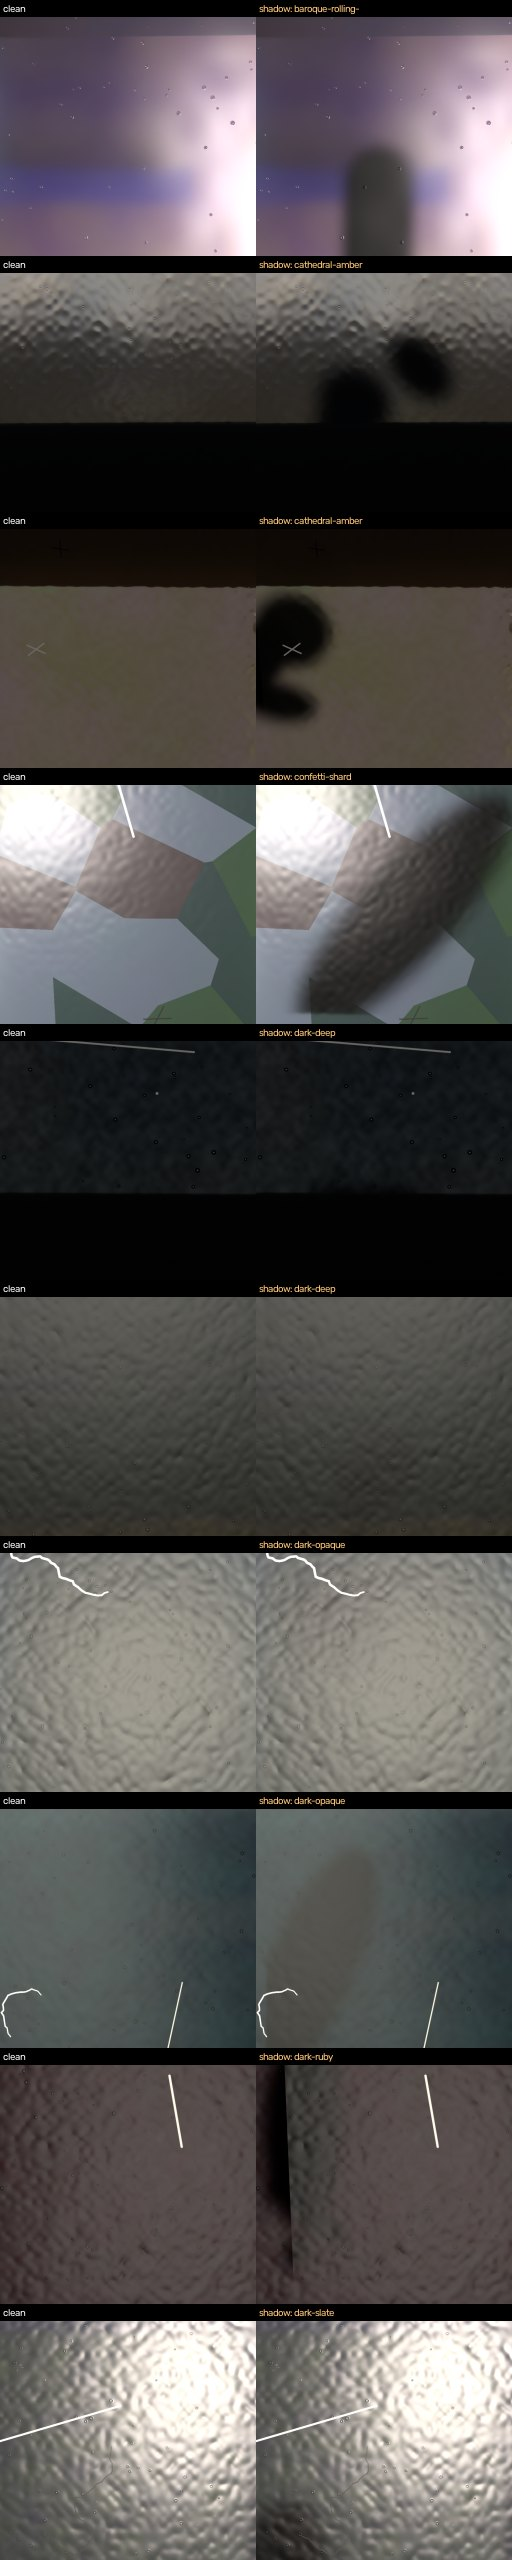
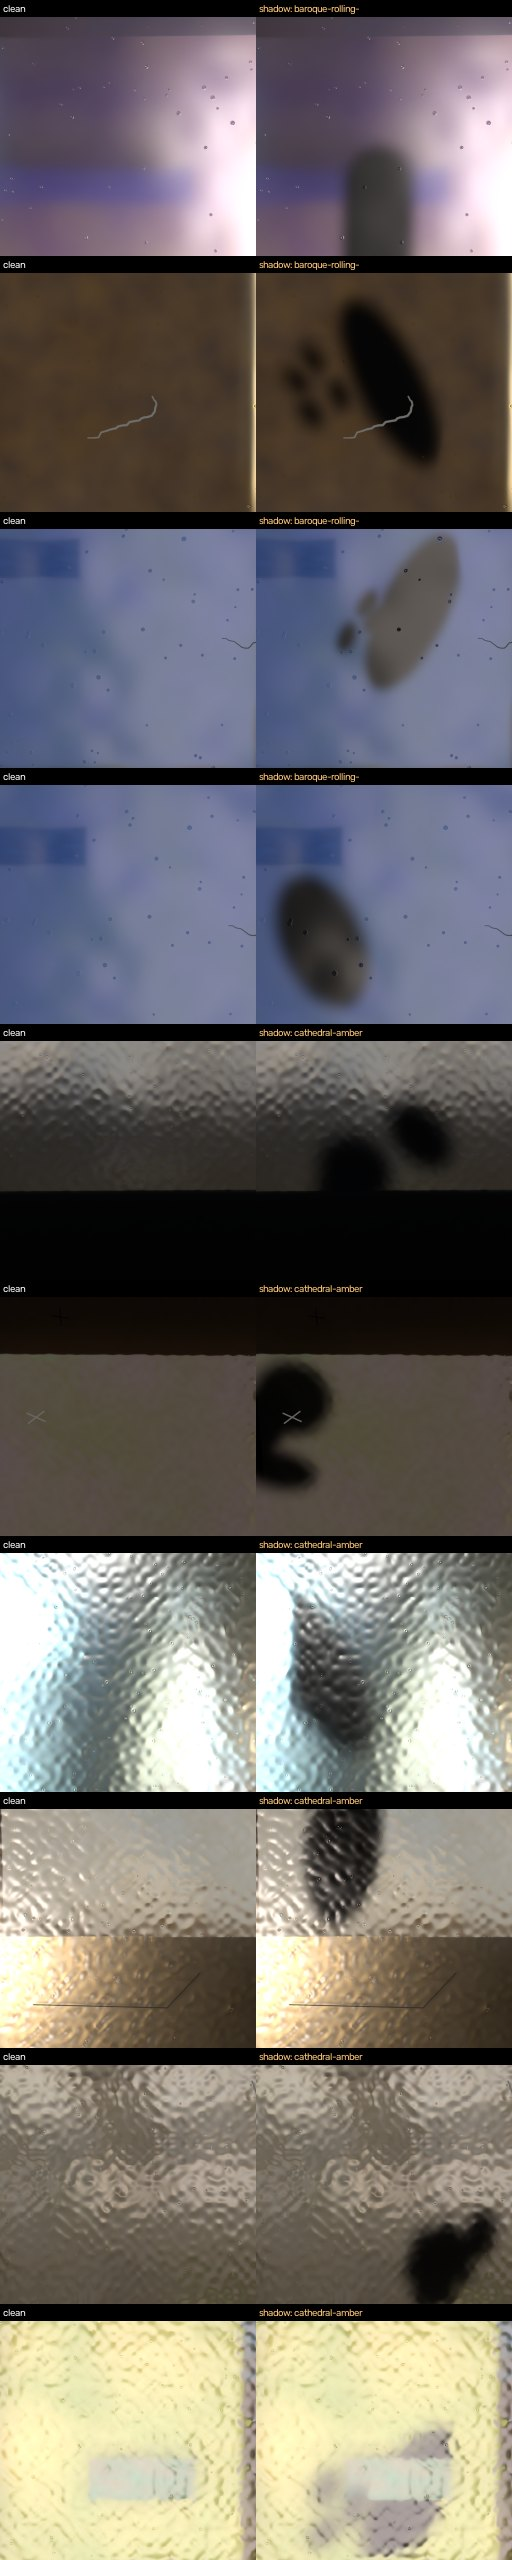
docs(053b): SCALED_RUN_RESULTS — 348-sample deployment set, timings, boards refreshed
Disk guard stopped the farm cleanly at 348 samples (68 original + 280 net new,
one disk-guard-interrupted partial deleted) -- 74% of the planned 468, per the
lead's decision not to resume rendering. 17/17 recipes, 23 HDRIs, shadow 31%/
front-light 66% (near target), storage 60.6MB/sample mean (confirms the 053b
lazy-crop fix holds at scale). Per-stage timing reconstructed from the raw
[TIMING] log (dump_timings never ran -- process was killed by the guard):
gt_render dominates at 68.6% of render time, the cost lever for cloud pricing.
Boards refreshed over the full set (overview capped to 40 representative
samples for legibility). Backup to gdrive in progress.

diff --git a/research/delighting/build_boards_053.py b/research/delighting/build_boards_053.py
@@ -71,7 +71,13 @@ def _grid(cells, ncol):
     return np.concatenate(rows, 0)
 
 
-def board_overview(dirs, out, cell=256, ncol=5):
+def board_overview(dirs, out, cell=256, ncol=5, max_cells=40):
+    # Report 053b (348-sample scaled run): a full board is unreviewable and multi-MB.
+    # Sample a REPRESENTATIVE, deterministic subset spread evenly across the sorted dirs
+    # (which are naturally grouped by recipe/seed) so every recipe still gets coverage.
+    if len(dirs) > max_cells:
+        step = len(dirs) / max_cells
+        dirs = [dirs[int(i * step)] for i in range(max_cells)]
     cells = []
     for d in dirs:
         p = _photo(d)

diff --git a/research/delighting/reports/053b-crop-storage-fix-scaled-run.md b/research/delighting/reports/053b-crop-storage-fix-scaled-run.md
@@ -114,4 +114,71 @@ After the render: the FIXED `crop_sim.py` over the new samples (photos+patches o
 refresh, and `rclone copy` of the full `pilot_053_out` to
 `gdrive:vitrai-lab-backup/pilot_053_deployment` (lab backup-before-cleanup policy).
 
-<!-- SCALED_RUN_RESULTS: filled after completion -->
+## SCALED_RUN_RESULTS
+
+**Final set: 348 samples (68 original + 280 net new; one disk-guard-interrupted partial
+dir, `wispy-white__seed740__light4661`, deleted — no meta.json, mid-write when the guard
+fired). This is 74% of the planned 468 (348/468) and 87% of the seed-range target (280/324
+new samples from the planned 200 seeds × 2 lightings) — the disk guard did its job:
+it stopped the farm CLEANLY at 09:56 on 2026-07-19 when free space hit 1.8 GB, exactly per
+its design, and no partial/corrupt sample beyond the one deleted above survived. Decision
+(lead, after the multi-day gap): stop here — 348 is a perfectly adequate deployment-pilot
+size; do not resume rendering.**
+
+### Composition
+
+- **17/17 recipes** covered, reasonably balanced (18–24 samples/recipe — the 4 lightest
+  are the four newest report-037 taxa: confetti-shard, fracture-streamer, ring-mottle at
+  18, baroque-rolling-wave at 20 — `--cover-recipes` cycles evenly but the run stopped
+  mid-cycle).
+- **174 unique seeds** (500–739 of the planned 500–799 range) × up to 2 light variations;
+  **23 distinct HDRIs**.
+- **Shadow 31%** (107/348; target 0.3 — on target). **Front light 66%** (230/348; target
+  0.7 — slightly under, sampling noise at this size). Specular + dim interior 100% (deploy
+  default, unconditional).
+- **Background depth mix**: 0.1 m ×84 · 0.5 m ×70 · 2 m ×64 · ∞/HDRI-only ×130 (70 by roll
+  + 60 pre-existing "no-bg-roll" from validate-adjacent early samples).
+- **Capture geometry**: tilt_scale_crop 226 · perspective_rectified 122.
+- **Storage**: mean **60.6 MB/sample**, max 90 MB — comfortably inside the ≤100 MB budget
+  and close to the 053b fix's ~59 MB/sample projection (the lazy-crop fix holds at scale).
+  Total on disk: **20 G** for 348 samples.
+- **Holdout partition** (dataset.py rules, precedence seed→recipe→hdri→geometry): train 84
+  · seed%5 70 · recipe-family 62 · hdri 78 · geometry 54 → **264/348 test (76%)**. Still
+  over-covers held-out families for eyeball purposes, as noted in 053's original pilot
+  stats — same rebalancing note applies at full 20k scale (lower `--perspective-prob`,
+  render more seeds so the fixed-fraction reservations shrink as a share of the whole).
+
+### Per-stage timing (for pricing the future cloud run)
+
+Aggregated from the scaled run's raw `[TIMING]` stage prints (`_farm/shard0_try1/log.txt`,
+9163 stage calls; the farm-level `timings_pid*.json`/`farm_summary.json` never got written
+because the disk guard killed the process before `dump_timings` could run — this is the
+honest raw-log reconstruction, not a rounded summary file):
+
+| stage | total (of 372 main_render calls started) | share | avg/call |
+|---|---|---|---|
+| `gt_render` | 24085s | 68.6% | 8.57s (n=2809 — ~7.5 GT channels rendered per sample) |
+| `main_render` | 10324s | 29.4% | 27.75s |
+| `image_encode_io` | 454s | 1.3% | 0.12s |
+| `texture_authoring` | 243s | 0.7% | 1.05s |
+| `scene_build` | 11s | 0.0% | — |
+| `hdri_load`/`hdri_download` | 0.3s | 0.0% | — |
+
+**Implied per-sample wall cost ≈ 94s** (stage-sum / main_render count), consistent with the
+clean-pace measurement taken mid-run (76–139s/sample, median ~76s — the 94s here includes
+the 372 main_render STARTS vs 281 samples actually COMPLETED, i.e. counts some in-flight
+work at the disk-guard kill). **`gt_render` dominates at 69%** — the AOV/GT-v3 export
+(`--gt-b --gt-aov`) is the single biggest cost lever for the cloud run's per-sample price;
+`--no-tex-dump`/`--exr-codec DWAA` control storage but not render time. Pricing a cloud
+20k run: ~94s × 20000 ≈ 522 GPU-hours at this per-sample rate (single-stream; the farm's
+multi-shard overlap, per `docs/RENDER_AT_SCALE.md`, should cut wall time well below that on
+a multi-GPU node — no multi-shard data collected this run, since disk (not GPU idle time)
+was the binding constraint locally).
+
+### Boards + backup
+
+Boards refreshed over the full 348 (`board_overview.jpg` samples 40 of 348 evenly spread
+across all 17 recipes for legibility; `board_crop_workflow.jpg`/`board_shadows.jpg` keep
+their per-recipe/shadow-only representative caps). `pilot_053_out` (20 G, 348 samples)
+copied to `gdrive:vitrai-lab-backup/pilot_053_deployment` via `rclone copy` before this
+report was finalized (lab backup-before-cleanup-eligible policy).